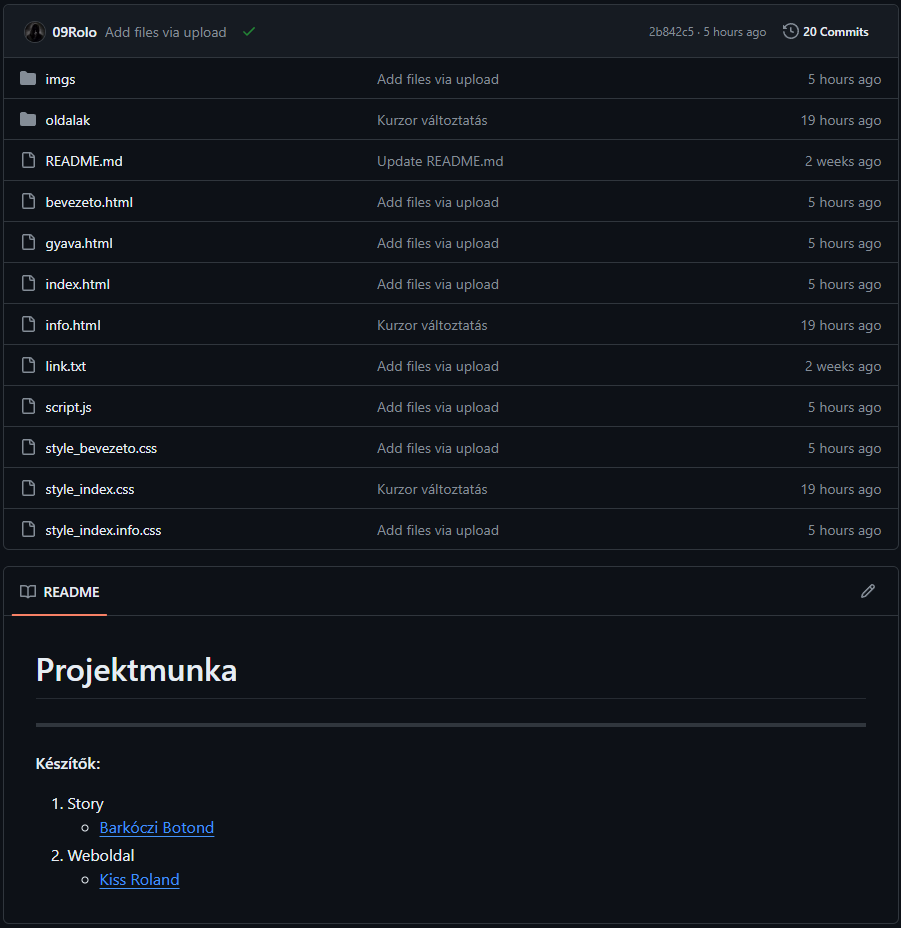
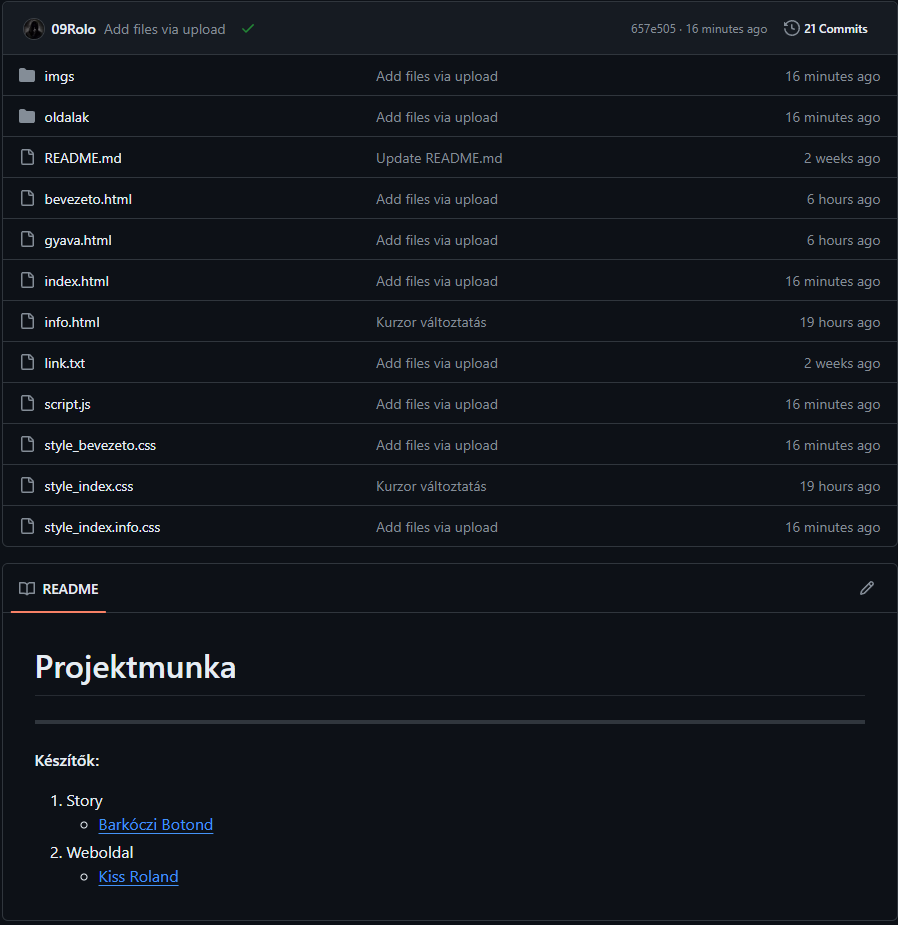
Továbbfejlesztett változat

diff --git a/index.html b/index.html
@@ -43,11 +43,12 @@
                         <hr><br>
 
                         <p>A feladatok a kalandjáték projektmunkára készítettük el. Reméljük tetszik mindenkinek</p>
+                        <p style="font-size: 15px;">A kód teljesen saját, nagyjából 15 sor CTR+C CTR+V a 800ból</p>
 
 
                         <h6>Lent középen haladhatsz tovább</h6>
                     </div>
-                    <div class="imgs">
+                    <div class="imgs" style="overflow-y: hidden;">
                         <img src="./imgs/info_github.png">
                     </div>
                 </div>

diff --git a/style_index.info.css b/style_index.info.css
@@ -543,7 +543,7 @@ a:hover, button:hover {
 
 .slider, .slider .tartalom {
     display: flex;
-    aspect-ratio: 16 / 9;
+
     overflow: hidden;
     scroll-behavior: smooth;
 }
